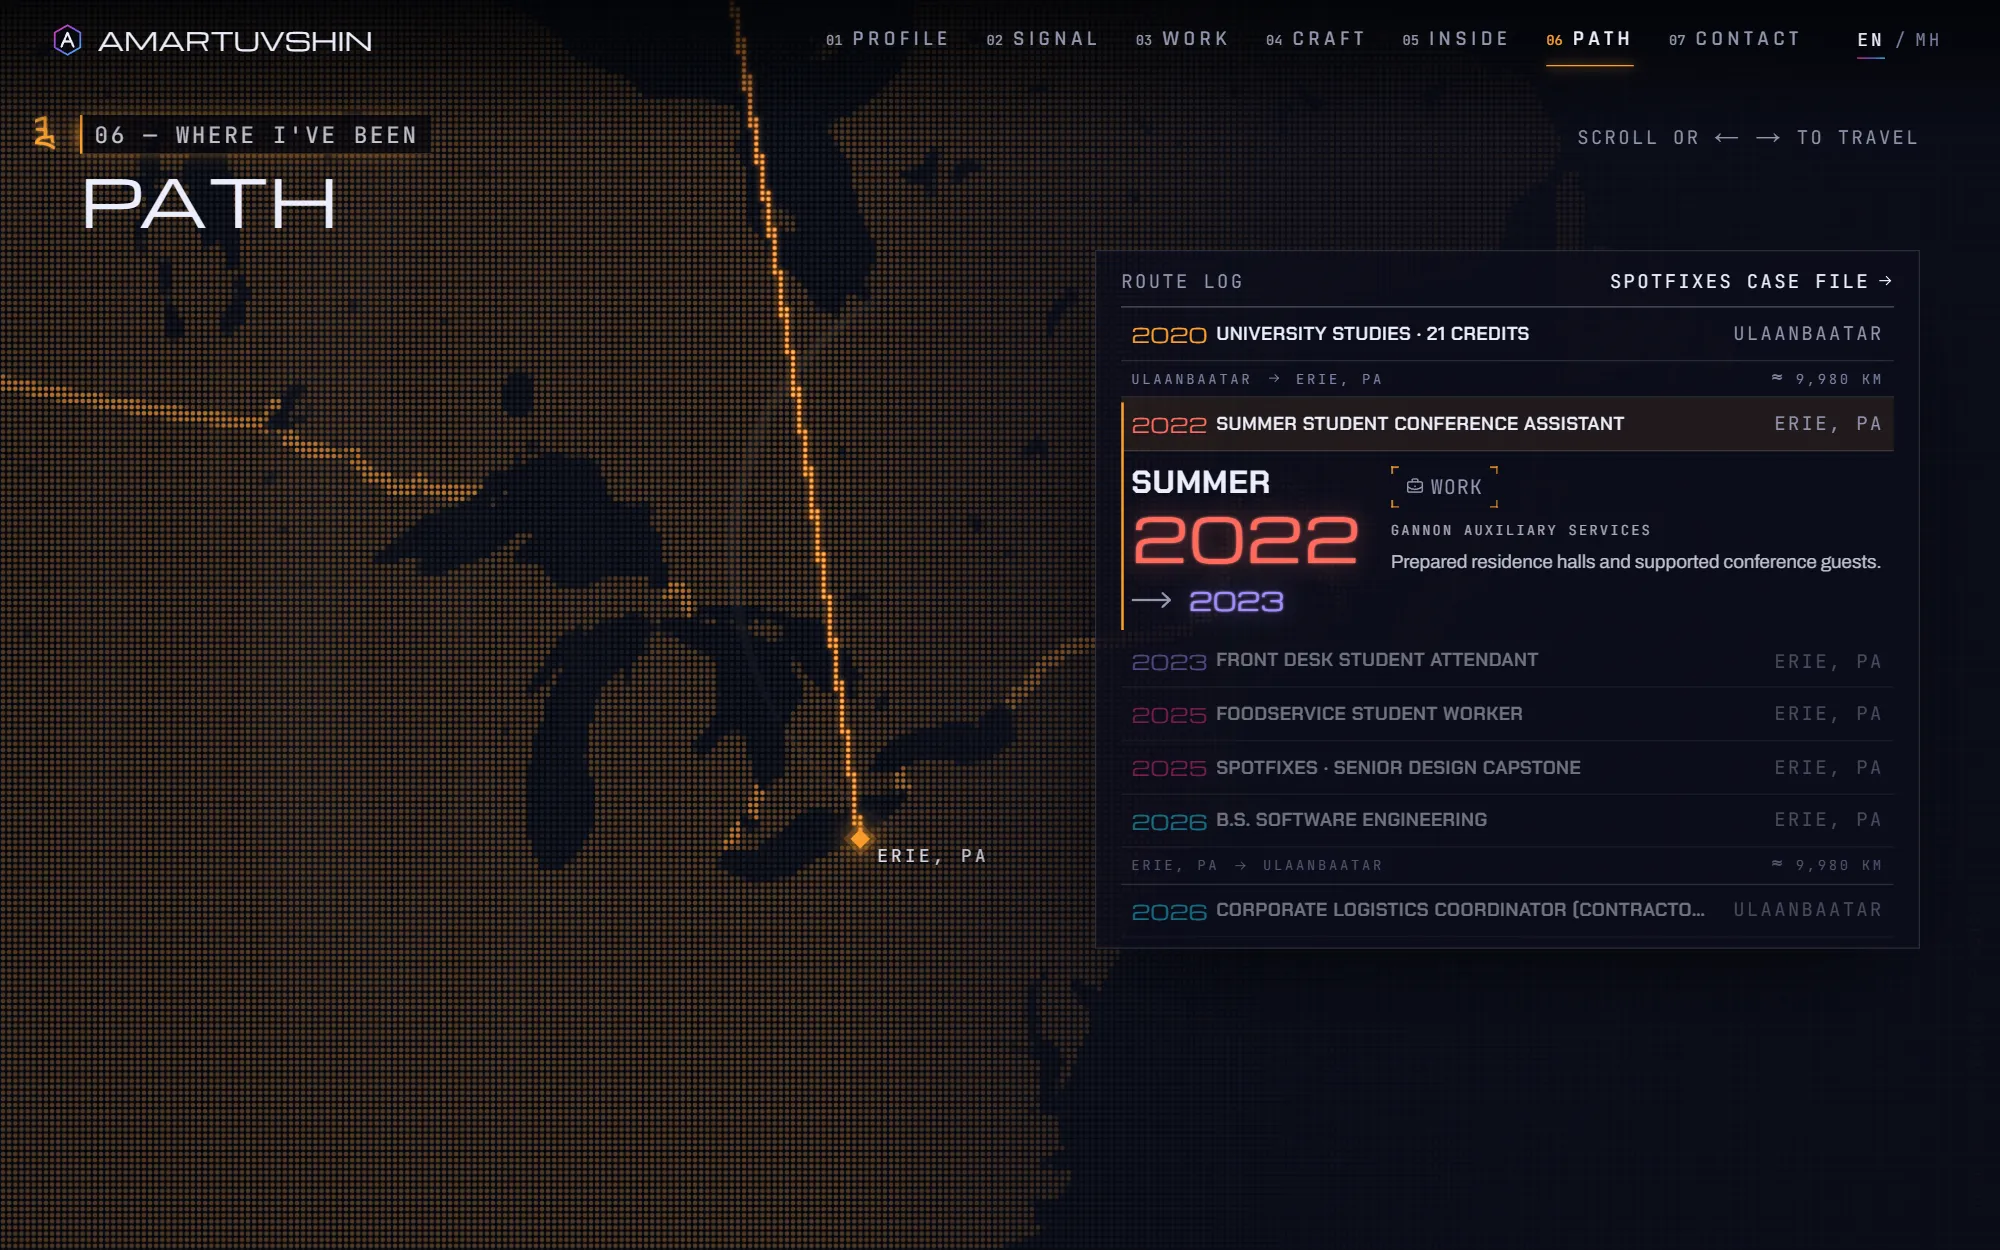
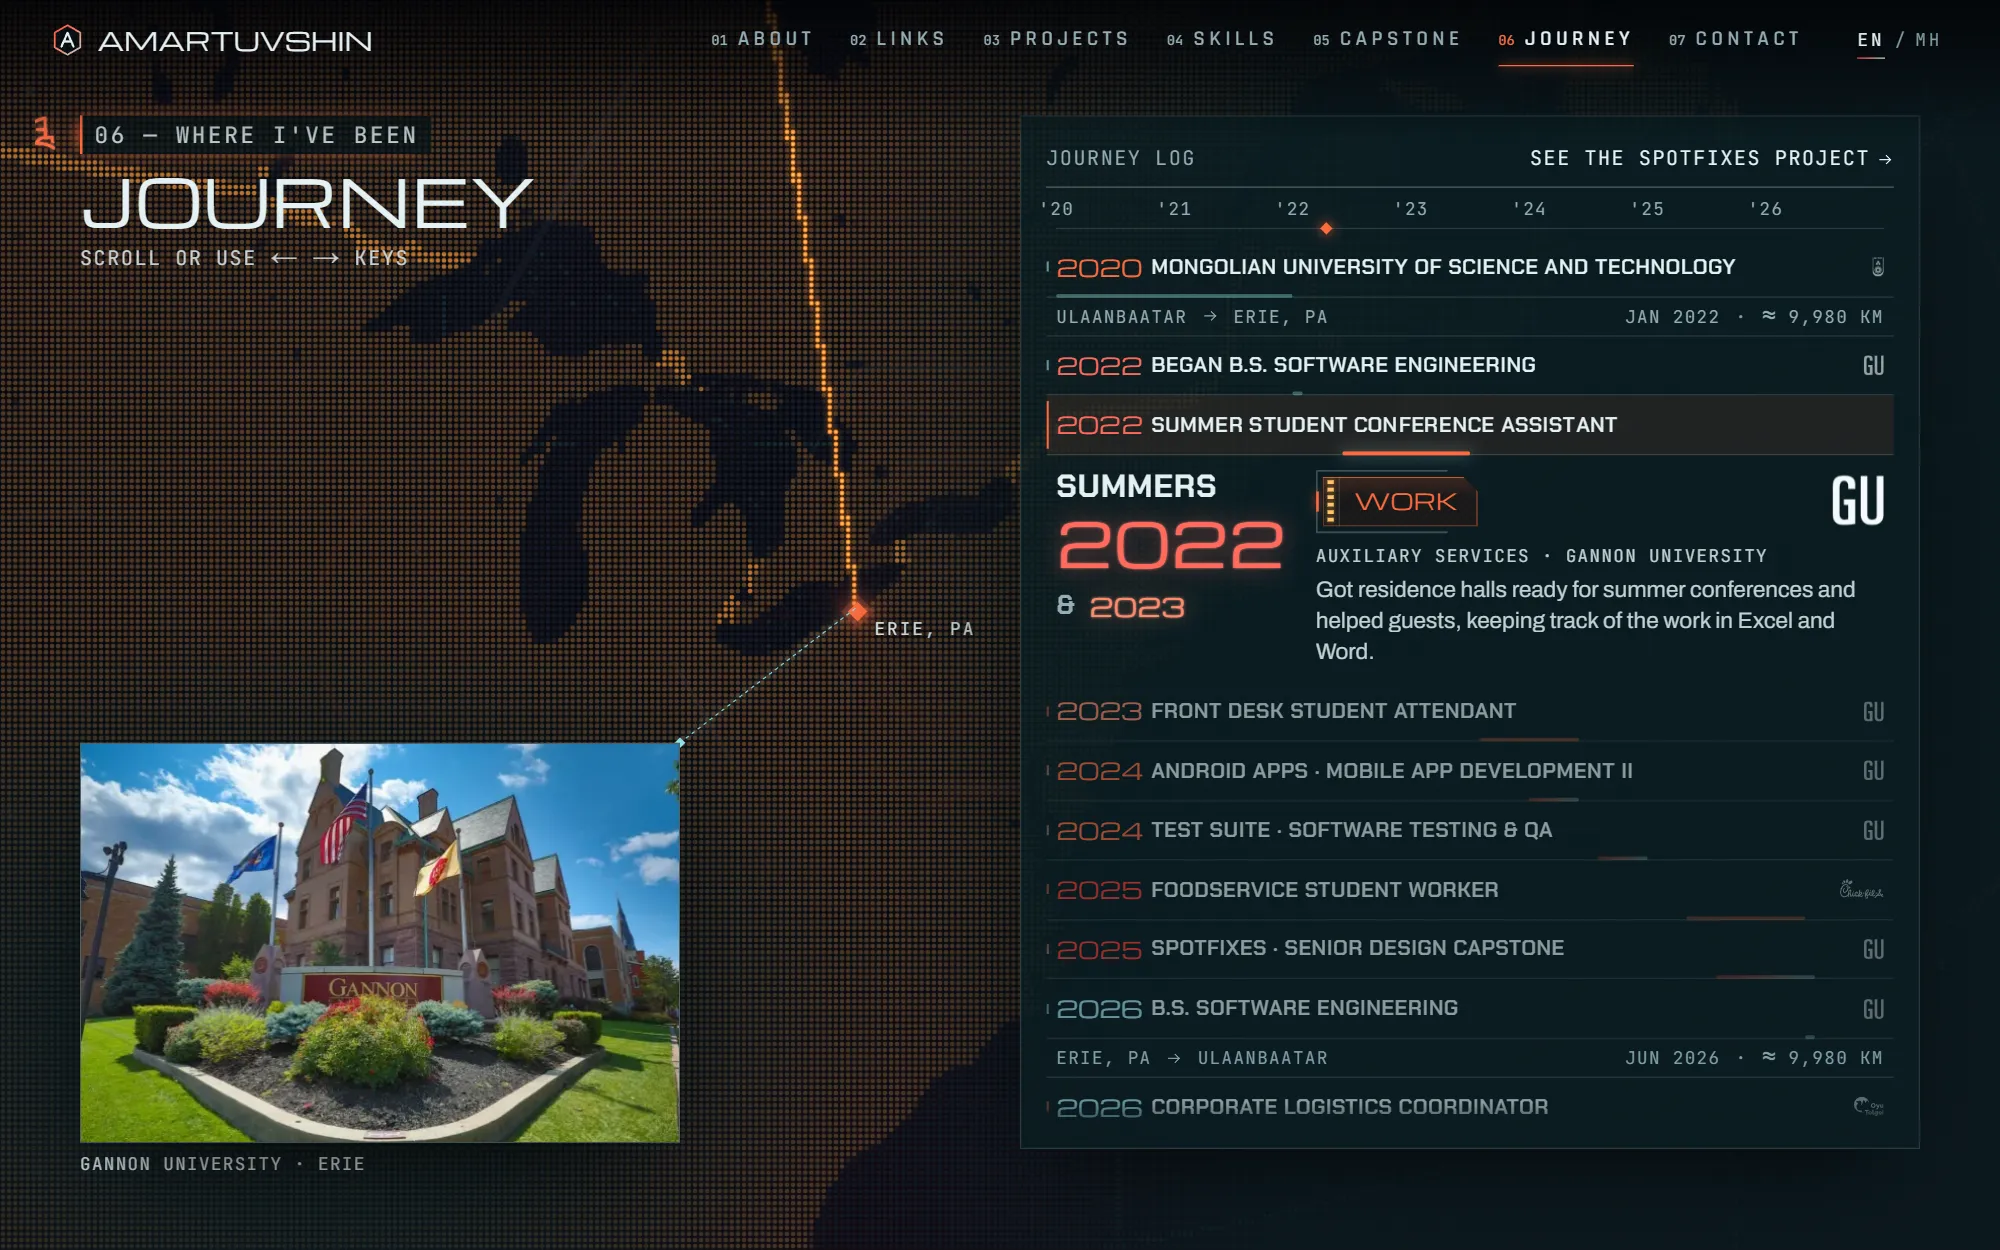
projects: this site links to amartuvshin.work, with fresh screenshots
The portfolio's project entry now points at its live domain and reads
Live, and its cover and gallery are recaptured from the current build.

diff --git a/src/lib/content.ts b/src/lib/content.ts
@@ -74,7 +74,8 @@ export interface Project {
    * `shot`. Captured from the live sites by `scripts/capture-shots.mjs`.
    */
   gallery?: { src: string; alt: string; caption?: string }[];
-  /** True for the portfolio itself — its address is wherever it is served. */
+  /** True for the portfolio itself. Its link is the canonical domain; without
+   *  one, the address bar shows wherever it is being served. */
   self?: boolean;
 }
 
@@ -451,7 +452,7 @@ export const projects: Project[] = [
     category: "Personal Portfolio",
     year: "2026",
     role: "Designer & Developer",
-    status: "In progress",
+    status: "Live",
     summary:
       "The site you're on: a portfolio that moves as you scroll, built in Next.js, with an accessibility check on every update.",
     description:
@@ -466,10 +467,11 @@ export const projects: Project[] = [
     shot: "/work/portfolio.webp",
     // Only put numbers here once they are measured on the deployed site.
     metrics: [],
+    links: [{ label: "AMARTUVSHIN.WORK", href: "https://amartuvshin.work" }],
     gallery: [
       {
         src: "/work/portfolio-work.webp",
-        alt: "This site's projects section: project cards floating in a 3D space that moves as you scroll, with a list of project links.",
+        alt: "This site's projects section: the Spotfixes story and figures on the left, its live site in a browser frame on a scroll-driven stage, and the project index below.",
         caption: "The projects section",
       },
       {

diff --git a/src/lib/content.mn.ts b/src/lib/content.mn.ts
@@ -106,7 +106,7 @@ const projects: Record<string, ProjectWords> = {
     title: "ЭНЭ САЙТ",
     category: "Хувийн портфолио",
     role: "Дизайнер, хөгжүүлэгч",
-    status: "Хөгжүүлж байна",
+    status: "Ажиллаж байна",
     summary:
       "Таны үзэж буй сайт: гүйлгэхэд хөдөлдөг, Next.js дээр бүтээсэн, шинэчлэл бүрт хүртээмжийг шалгадаг портфолио.",
     description:
